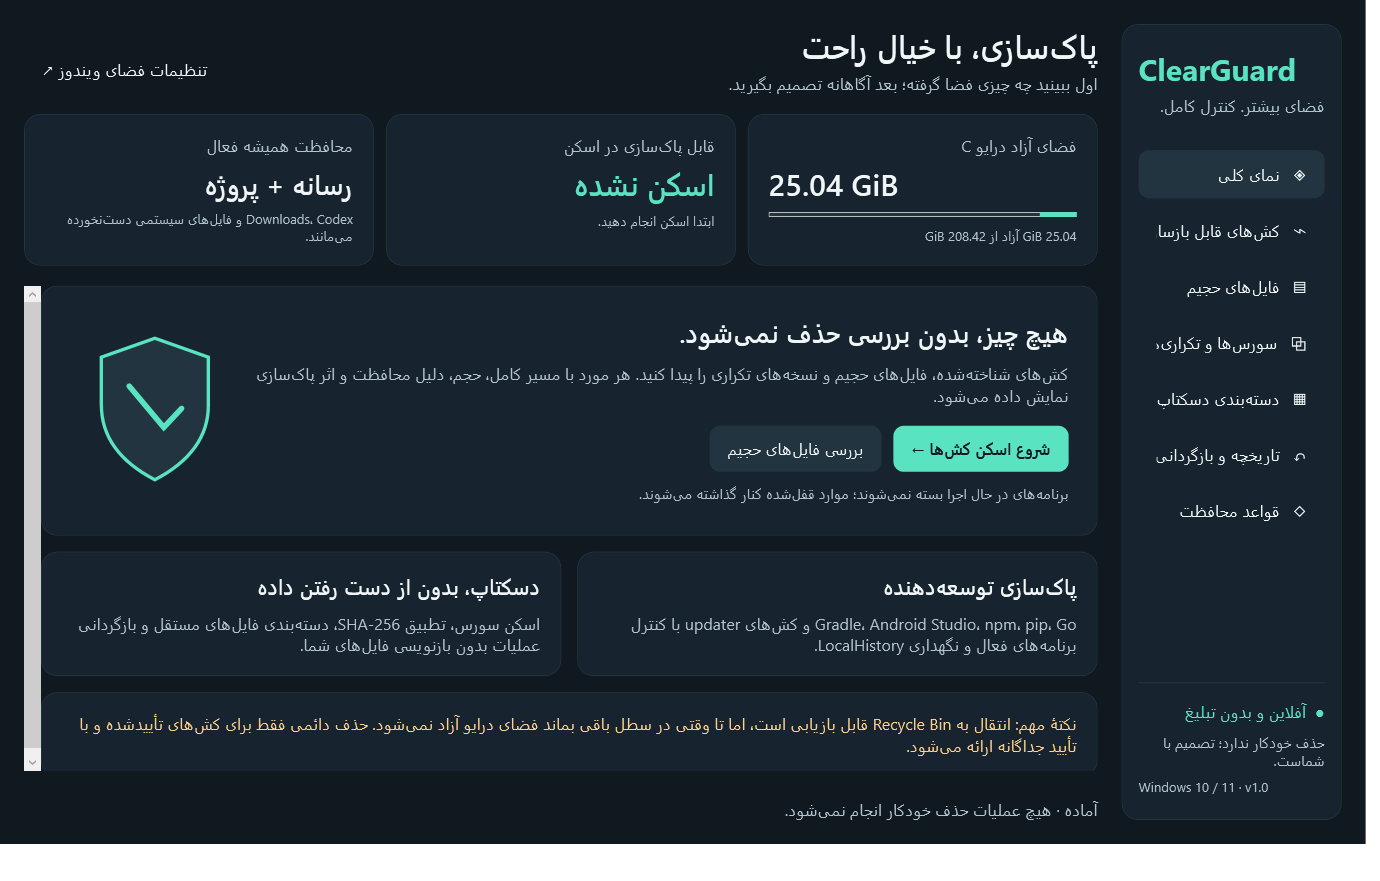
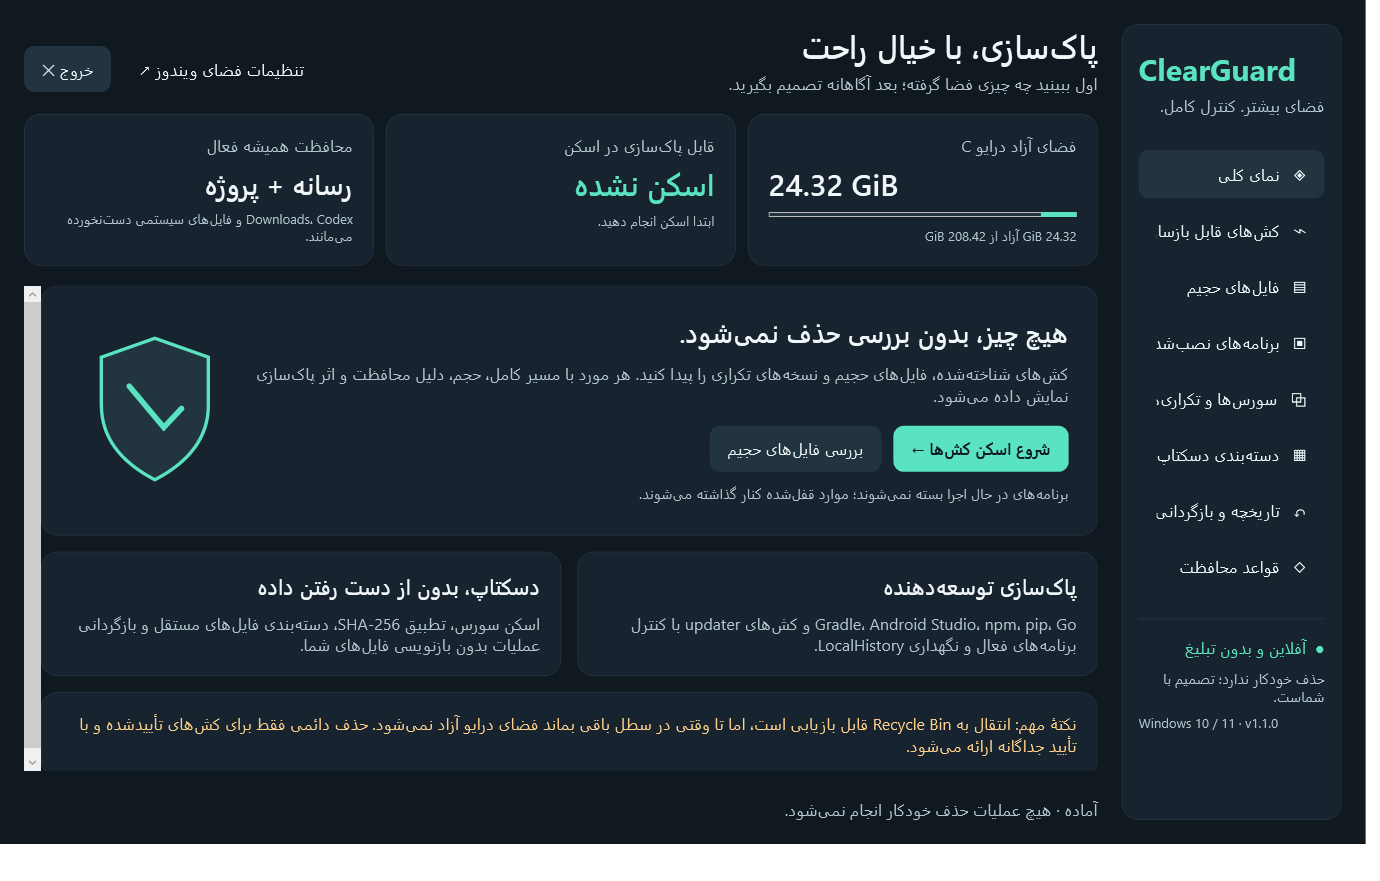
test: publish v1.1.0 safety and native UI validation
Sanitized exact-binary reports: 75 safety cases, 22 native interaction checks, all eight page renders; 0 failures or skips. Synthetic installed-app screenshot, no private inventory. Independent keeper-hash mutation was caught by the ZIP recovery test.

diff --git a/docs/README.md b/docs/README.md
@@ -1,9 +1,10 @@
 # Validation and preview / اعتبارسنجی و پیشنمایش
 
 - [Persian interface preview / پیشنمایش رابط فارسی](Preview.png)
-- [33 isolated-fixture safety tests / ۳۳ آزمون ایمنی مصنوعی](Safety-Test-Report.json)
-- [Seven native page renders / رندر هفت صفحهٔ بومی](UI-Test-Report.json)
+- [Installed applications with synthetic demo data / برنامهها با دادهٔ مصنوعی نمایشی](InstalledApps.png)
+- [Legacy and added isolated-fixture safety tests / آزمونهای ایمنی قبلی و جدید](Safety-Test-Report.json)
+- [Eight native page renders and UI interaction checks / رندر هشت صفحه و آزمون تعامل بومی](UI-Test-Report.json)
 
-The reports are sanitized public summaries, tied to the published executable SHA-256. Raw local paths and user inventories are not included. These tests are not exhaustive certification; see the safety report's `Gaps` and [SECURITY.md](../SECURITY.md).
+The v1.1.0 reports are sanitized public summaries tied to the published executable SHA-256. The safety report must retain every original safety case and include added regressions. The UI report includes all eight pages plus fixture-backed interaction checks, including idle/busy Exit and the read-only installed-app grid. Exact current counts are in the reports; no raw local paths, user inventories, or private exception details are included. These tests are not exhaustive certification; see both reports' `Gaps` and [SECURITY.md](../SECURITY.md).
 
 گزارشها خلاصهٔ عمومی و بدون مسیر خصوصیاند و به هش فایل اجرایی اشاره دارند. هیچ فایل واقعی کاربر در آزمونها پاک نشده است. محدودیتها در `Gaps` گزارش ایمنی و راهنمای امنیت آمدهاند.
